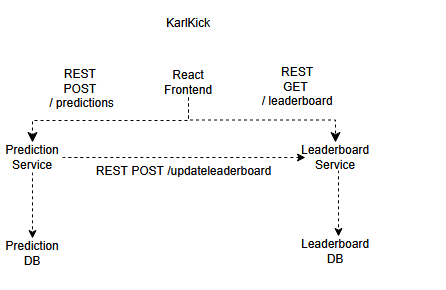
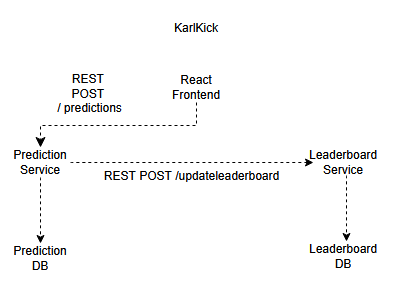
Readme update

diff --git a/README.md b/README.md
@@ -2,7 +2,9 @@
 
 KarlKick ist eine moderne Fußball-Tippspiel-App, bei der Benutzer Fußballspiele tippen, sich mit Freunden in privaten Tippspiel-Ligen messen und Ranglisten verfolgen können.
 
-Das Projekt entsteht schrittweise mithilfe von **AI Coding** mit **Claude Code** unterstützt durch Chat GPT. Die Benutzeroberfläche wurde zunächst mit **Google Stitch** entworfen und anschließend iterativ umgesetzt.
+Das Projekt wurde im Rahmen des Moduls **Softwaretechnik** entwickelt und schrittweise mithilfe von **AI Coding** umgesetzt. 
+Für die Implementierung kam überwiegend **Claude Code** zum Einsatz, unterstützt durch **ChatGPT**. 
+Die Benutzeroberfläche wurde zunächst mit **Google Stitch** entworfen und anschließend iterativ umgesetzt.
 
 ---
 
@@ -16,55 +18,96 @@ Das Projekt entsteht schrittweise mithilfe von **AI Coding** mit **Claude Code**
 
 ## Backend
 
-- Spring Boot
+- Spring Boot 3
 - Maven
 - Java 21
+- Spring Data JPA
 - H2 Database
 
 ## AI-Tools
 
 - Claude Code
+- ChatGPT
 - Google Stitch
-- Chat GPT
 
 ---
 
-# Entwicklungsstand
+# Projektübersicht
 
-## Bereits umgesetzt
+Das Projekt besteht aus einem React-Frontend sowie mehreren unabhängigen Spring-Boot-Services.
 
-- ✅ Projektstruktur erstellt
-- ✅ React-Frontend eingerichtet
-- ✅ Spring-Boot-Backend eingerichtet
-- ✅ H2-Datenbank konfiguriert
-- ✅ Dashboard implementiert
-- ✅ Wiederverwendbare React-Komponenten erstellt
+```
+KarlKick
+│
+├── frontend                 React-Anwendung
+├── backend                  Ursprüngliches Monolith-Backend (Teil B)
+├── prediction-service       Microservice für Spieltipps
+├── leaderboard-service      Microservice für Ranglisten
+├── docs                     Projektdokumentation
+├── prompts                  Verwendete AI-Prompts
+└── screens                  Screenshots und UI-Entwürfe
+```
+
+---
+
+# Umgesetzte Funktionen
+
+## Frontend
+
+- ✅ Dashboard
+- ✅ Predictions
+- ✅ Leaderboard
+- ✅ Friends
+- ✅ Profile
 - ✅ Client-seitiges Routing mit React Router
+- ✅ Wiederverwendbare React-Komponenten
+- ✅ Modernes Dark-Theme
 
-## In Entwicklung
+## Backend
 
-- ⏳ Tipps abgeben
-- ⏳ Rangliste
-- ⏳ Freunde
-- ⏳ Profil
+### Prediction Service
 
-## Geplante Funktionen
+- ✅ REST-Endpunkt `POST /predictions`
+- ✅ Speicherung von Tipps in einer eigenen H2-Datenbank
+- ✅ Kommunikation mit dem Leaderboard Service über REST
 
-- Login
-- Backend-Anbindung
-- REST-API
-- Datenbankpersistenz
-- Private Tippspiel-Ligen
-- AI-Unterstützung
-- Verteilte Architektur (Aufgabe C)
+### Leaderboard Service
+
+- ✅ REST-Endpunkt `POST /updateLeaderboard`
+- ✅ Speicherung eingehender Aktualisierungen in einer eigenen H2-Datenbank
+
+---
+
+# Verteilte Architektur
+
+Für Teil C des Projekts wurde eine einfache verteilte Architektur umgesetzt.
+
+Die Anwendung besteht aus zwei unabhängigen Spring-Boot-Services:
+
+- Prediction Service
+- Leaderboard Service
+
+Beide Services
+
+- besitzen eine eigene H2-Datenbank,
+- kommunizieren über REST,
+- können unabhängig voneinander gestartet werden.
+
+Die Kommunikation erfolgt nach folgendem Ablauf:
+
+## Architerkturübersicht
+
+![Verteilte Architektur](docs/images/architecture-overview.png)
 
 ---
 
 # Projektstruktur
 
-```text
+```
 backend/
 frontend/
+prediction-service/
+leaderboard-service/
 docs/
 prompts/
 screens/
@@ -74,25 +117,51 @@ screens/
 
 # Dokumentation
 
-Die Entwicklung wird vollständig dokumentiert.
+Die Entwicklung wurde vollständig dokumentiert.
 
-- **docs/** → Anforderungen, Roadmap und Entwicklungsprotokoll
-- **prompts/** → Verwendete Claude-Code-Prompts
-- **screens/** → Google-Stitch-Entwürfe und Screenshots der Implementierung
+- `docs/` – Projektplanung, Architektur und Development Log
+- `prompts/` – alle verwendeten Claude-Code-Prompts
+- `screens/` – UI-Entwürfe sowie Screenshots der einzelnen Entwicklungsiterationen
 
 ---
 
 # Entwicklungsprozess
 
-Das Projekt wird nach einem iterativen Vorgehen entwickelt.
-
-Jede Iteration umfasst:
+Das Projekt wurde iterativ entwickelt. Jede Iteration bestand aus folgenden Schritten:
 
 1. Ziel definieren
 2. Prompt für Claude Code erstellen
 3. Implementierung durch Claude Code
-4. Überprüfung und Test
+4. Code überprüfen und testen
 5. Dokumentation im Development Log
 6. Commit und Push nach GitHub
 
-Weitere Details zu jeder Entwicklungsiteration befinden sich im Dokument `docs/04-devlog.md`.
+Alle Entwicklungsiterationen sind im Dokument **`docs/04-devlog.md`** dokumentiert.
+
+---
+
+# Finaler Stand
+
+## Teil A
+
+- ✅ Google Stitch Architektur
+
+## Teil B
+
+- ✅ Mittelgroßes Pet Project umgesetzt
+- ✅ Vollständiges React-Frontend erstellt
+
+## Teil C
+
+- ✅ Verteilte Architektur umgesetzt
+- ✅ Zwei unabhängige Spring-Boot-Services erstellt
+- ✅ REST-Kommunikation implementiert
+- ✅ Eigene Datenhaltung pro Service umgesetzt
+
+---
+
+# Autor
+
+Projekt im Rahmen des Moduls **Softwaretechnik**.
+
+Entwicklung mit Unterstützung von **Claude Code** und **ChatGPT**.